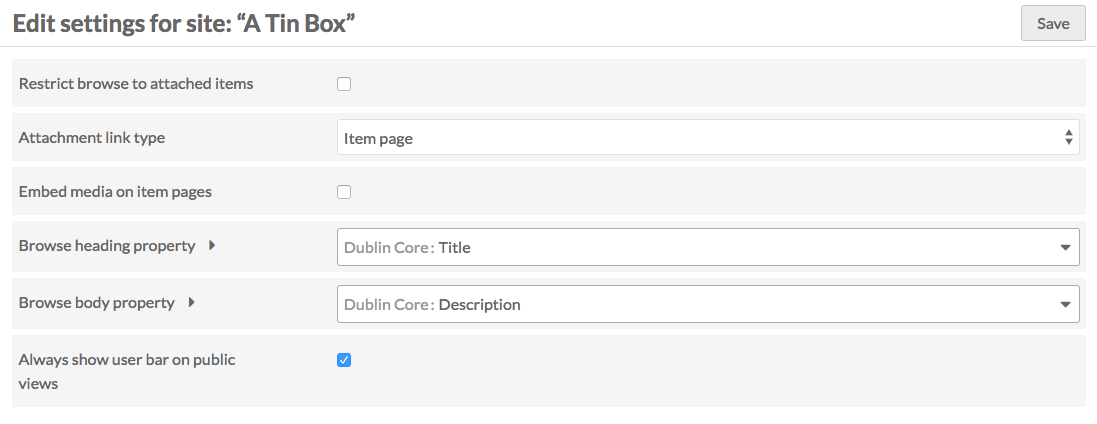
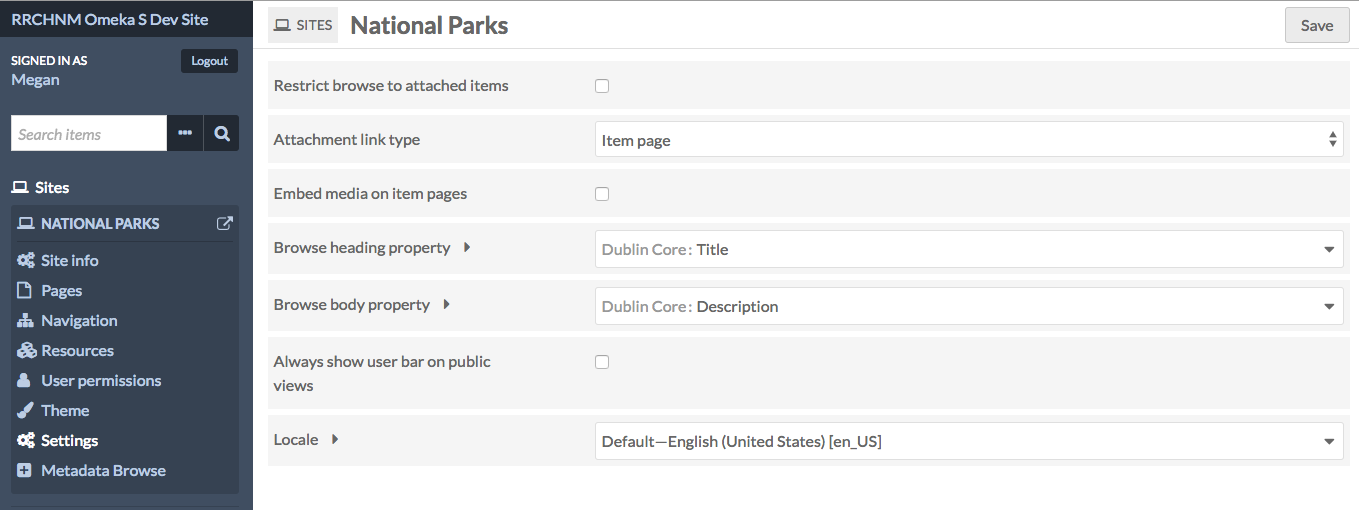
site locale settings

diff --git a/sites/site_settings.md b/sites/site_settings.md
@@ -5,22 +5,28 @@ This tab allows you to configure settings for the [site](../sites/sites.md) over
 
 ![Site settings options as described below](../sites/sitesfiles/sites_settings.png)
 
-*Restrict browse to attached items* is a checkbox. If checked, the Browse functions of your site will only show items which have been added to a page block. If unchecked, browse pages and blocks on your site will include all items in the Item Pool.
+## Restrict browse to attached items
+A checkbox. If checked, the Browse functions of your site will only show items which have been added to a page block. If unchecked, browse pages and blocks on your site will include all items in the Item Pool.
 
-*Attachment link type*, which sets the target of links from attachments you add to [site page blocks](../sites/site_pages.md#editing-pages) (for example, in an [item showcase](../sites/site_pages.md#item-showcase). It offers a dropdown with the following options:
+## Attachment link type
+Sets the target of links from attachments you add to [site page blocks](../sites/site_pages.md#editing-pages) (for example, in an [item showcase](../sites/site_pages.md#item-showcase). It offers a dropdown with the following options:
 - *item page:* clicking on the attachment takes users to the item page associated with the attached media;
 - *media page:* clicking on the attachment takes users to the media page; 
 - *direct link to file:* clicking on the attachment takes user to the file alone. 
 
-*Embed media on item pages* is a checkbox. When checked, any linked media (such as videos) will be embedded on the item pages. When unchecked, site visitors will click through to view playable media.
+## Embed media on item pages
+A checkbox. When checked, any linked media (such as videos) will be embedded on the item pages. When unchecked, site visitors will click through to view playable media.
 
-*Browse heading property*: set which property to use as the heading for each resource on a browse page. By default, this is Dublin Core: Title. The dropdown allows you to select from all available vocabularies, and includes a search bar to quickly find the desired property.
+## Browse heading property
+Set which property to use as the heading for each resource on a browse page. By default, this is Dublin Core: Title. The dropdown allows you to select from all available vocabularies, and includes a search bar to quickly find the desired property.
 
 ![The browse heading property option is open. The current selection, Dublin Core: Title, is at the top. Immediately below it is a search bar, indicated by a magnifying glass symbol. Below that are some properties from the the friend of a friend vocabulary.](../sites/sitesfiles/sites_setbrowseprop.png)
 
-*Browse body property*: set which property to use as the body text for each resource on a browse page. By default, this is Dublin Core: Description. The dropdown allows you to select from all available vocabularies, and includes a search bar to quickly find the desired property.
+## Browse body property
+Set which property to use as the body text for each resource on a browse page. By default, this is Dublin Core: Description. The dropdown allows you to select from all available vocabularies, and includes a search bar to quickly find the desired property.
 
-*Always show user bar on public views* checkbox. When checked, the public views of the site will have a header bar which either displays navigation options (for logged-in users) or a login option (for logged-out users)
+## Always show user bar on public views
+A checkbox. When checked, the public views of the site will have a header bar which either displays navigation options (for logged-in users) or a login option (for logged-out users)
 
 - When users are logged in, the user bar has the following options:
 	- Installation Title: takes you back to the installation admin
@@ -33,3 +39,6 @@ This tab allows you to configure settings for the [site](../sites/sites.md) over
 - When users are not logged, the user bar only displays a login option.
 
 ![A blue bar across the top of the image only has a small button reading "Log In". Below this, the site's title "A Tin Box" is displayed in black text on a white background.](../sites/sitesfiles/sites_userbarout.png)
+
+## Locale
+A dropdown menu to select the language code for this site. By default this will be set to the same as the global locale setting for the entire Omeka S installation. To change, select a language from the dropdown menu.
